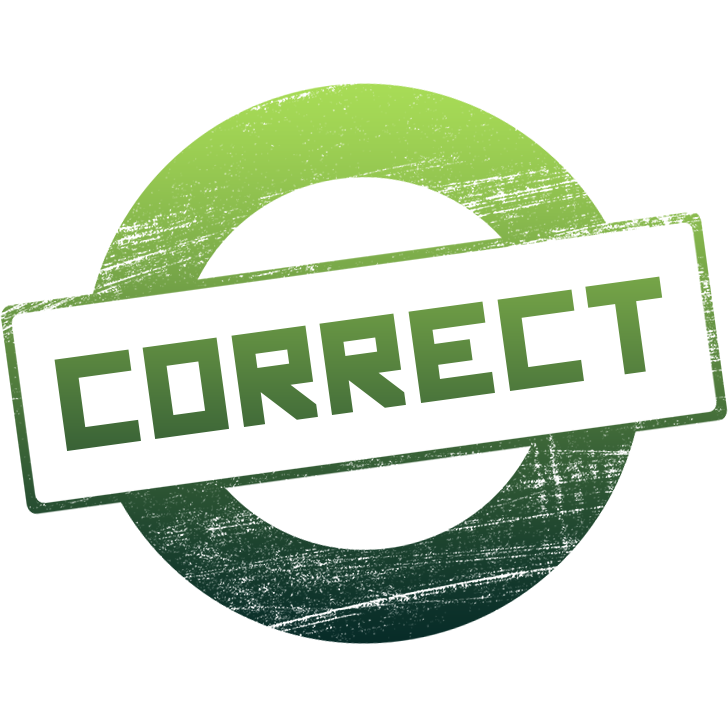
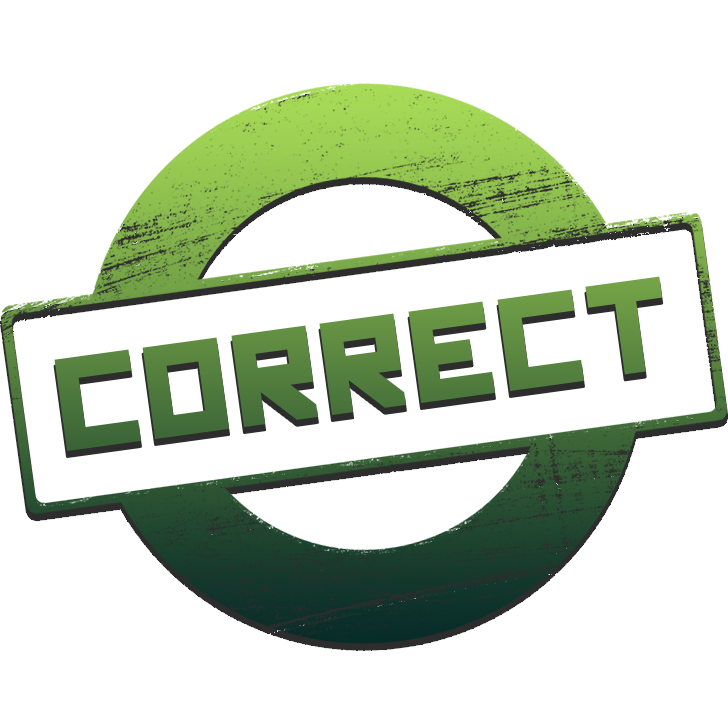
Ajustes de game feel

diff --git a/sketch.js b/sketch.js
@@ -2,9 +2,10 @@
 //////////////////////////////////////////////////////////////////////////////////// // 
 //////////////////////////////////////////////////////////////////////////////////// // 
 //Visual variables
-var loadedFont, loadedFrame, loadedBackground, picx, picy, picsw, picsh;
+var loadedFont, loadedFrame, loadedBackground, loadedIconC, loadedIconW, loadedStampC, loadedStampW, stamp_it, stamp_progress, pic_scale;
+var picx, picy, picsw, picsh, picstatus;
 var inputString, pressed, counter, pressedkey, textInputSize;
-var w, h, centerx, centery, screenoffset_y, screenoffset_x;
+var w, h, centerx, centery, screenoffset_y, screenoffset_x, picture_posx;
 var button_scale;
 var button_opacity;
 
@@ -28,9 +29,21 @@ function preload() {
 	loadedFont = loadFont(PATH + "font.otf");
 	loadedBackground = loadImage(PATH + "background.png");
 	loadedFrame = loadImage(PATH + "photoframe.png");
+
+	loadedIconC = loadImage(PATH + "icon_correct.png");
+	loadedIconW = loadImage(PATH + "icon_wrong.png");
+	loadedStampC = loadImage(PATH + "stamp_correct.png");
+	loadedStampW = loadImage(PATH + "stamp_wrong.png");
+
 }
 
 function setup() {
+
+	//Create Canvas
+	screenoffset_y = 0;
+	screenoffset_x = 0;
+	updateScreen();
+	createCanvas(w, h);
 
 	//Initialize visual variables
 	inputString = "";
@@ -38,6 +51,10 @@ function setup() {
 	pressedkey = "";
 	counter = 0;
 	textInputSize = 0.78;
+	picstatus = 0;
+	stamp_it = 0;
+	stamp_progress = 0;
+	pic_scale = 1;
 	
 	//Game variables
 	SCREEN = 1;
@@ -53,17 +70,11 @@ function setup() {
 	CURRENT_DIFFICULTY = 0;
 	
 	requestNewPerson(CURRENT_DIFFICULTY);
-	
+
 	//Buttons fields
-	posx = 0;
+	picture_posx = picture_posx = w * 1.5;;
 	button_scale = 1;
 	button_opacity = 1;
-	
-	//Create Canvas
-	screenoffset_y = 0;
-	screenoffset_x = 0;
-	updateScreen();
-	createCanvas(w, h);
 }
 
 function draw() {
@@ -80,7 +91,7 @@ function draw() {
 	var medium_width = min(w*0.8, h*0.4);
 
 	if (loadedFrame)
-		image(loadedBackground, 0, (cos(time * 0.0002) - 1) * w * 0.01, max(w, h*1.77777) * 1.01, max(w,h*1.77777) * 0.5625 * 1.01);
+		image(loadedBackground, 0, (cos(time * 0.0003) - 1) * w * 0.01, max(w, h*1.77777) * 1.01, max(w,h*1.77777) * 0.5625 * 1.01);
 
 	//////////////////////////////////////////////////////////////////////////////////// // 
 	//////////////////////////////////////////////////////////////////////////////////// // 
@@ -128,18 +139,69 @@ function draw() {
 		rect(centerx - sizew*0.5, posy - sizeh*0.5, sizew, sizeh);
 
 		//Picture
-		sizeh = medium_width*1.2;
+		if (pic_scale > 1)
+		{
+			pic_scale -= 0.0004*deltaTime;
+			if (pic_scale < 1)
+				pic_scale = 1;
+		}
+		
+		sizeh = medium_width*1.2*pic_scale;
 		sizew = sizeh;
-		posx = centerx;
+
+		if (picstatus == 0)
+		{
+			picture_posx += (centerx - picture_posx) * deltaTime * 0.0042;
+		}
+		else 
+		{
+			picture_posx += ((centerx - w) - picture_posx) * deltaTime * 0.0025;
+			if (picture_posx < w * -0.4)
+			{
+				//Scroll Picture
+				picture_posx = w * 1.5;
+				picstatus = 0;
+				stamp_it = 0;
+
+				//Next Person
+				requestNewPerson();
+			}
+		}
 		
 		if (loadedFrame)
-			image(loadedFrame, posx - sizew*0.5, posy - sizeh*0.5, sizew, sizeh);
+			image(loadedFrame, picture_posx - sizew*0.5, posy - sizeh*0.5, sizew, sizeh);
 		if (person_picture)
 		{
 			sizeh *= 0.74;
 			sizew = sizeh;
 			posy *= 0.929;
-			image(person_picture, posx - sizew*0.5, posy - sizeh*0.5, sizew, sizeh, picx, picy, picsw, picsh);
+			image(person_picture, picture_posx - sizew*0.5, posy - sizeh*0.5, sizew, sizeh, picx, picy, picsw, picsh);
+		}
+		if (stamp_it)
+		{
+			if (stamp_progress < 1)
+			{
+				stamp_progress += (0.005 + (stamp_progress * 0.1))* deltaTime;
+				if (stamp_progress > 1)
+				{
+					stamp_progress = 1;
+					pic_scale += .05;
+				}
+			}
+			
+			sizeh = medium_width*(2.5 - stamp_progress);
+			sizew = sizeh;
+
+			if (stamp_it == 1)
+			{
+				//Right
+				image(loadedStampC, picture_posx - sizew*0.5, posy - sizeh*0.5, sizew, sizeh);
+			}
+			else
+			{
+				//Wrong
+				image(loadedStampW, picture_posx - sizew*0.5, posy - sizeh*0.5, sizew, sizeh);
+			}
 		}
 
 		//////////////////////////////////////////////////////////////////////////////////// // 
@@ -312,7 +374,8 @@ function validateAnswerComplete()
 
 			//Validate and save result
 			is_the_answer_right = validateAnswer(inputString);
-			print( is_the_answer_right);
+			stamp_it = (is_the_answer_right == true ? 1: 2);
+			stamp_progress = 0;
 
 			//Reset buffer
 			pressed = false;
@@ -321,7 +384,7 @@ function validateAnswerComplete()
 			inputString = "";
 
 			//Set clock
-			clock_to_next_level = 600;
+			clock_to_next_level = 950;
 
 			//Record historic
 			score.push(is_the_answer_right);
@@ -336,9 +399,14 @@ function validateAnswerComplete()
 function clockTick()
 {
 	if (clock_to_next_level > 0)
+	{
 		clock_to_next_level -= deltaTime;
-	if (clock_to_next_level < 0)
-		clock_to_next_level = 0;
+		if (clock_to_next_level < 0)
+		{
+			clock_to_next_level = 0;
+			picstatus = 1;
+		}
+	}
 }
 
 function requestNewPerson(dificulty)
